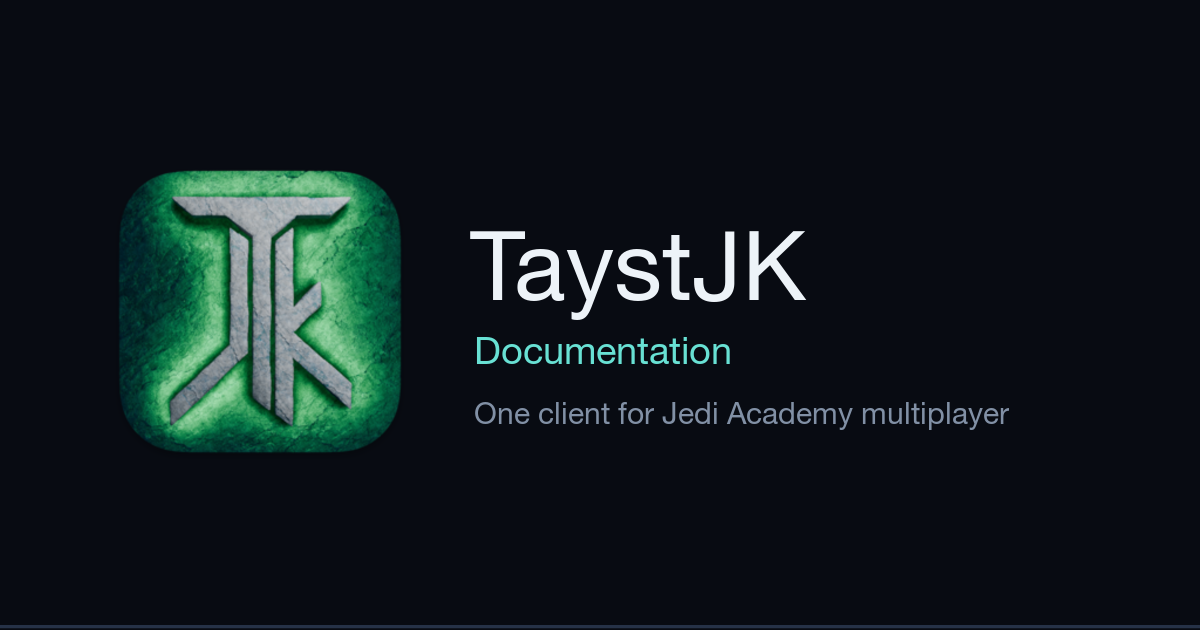
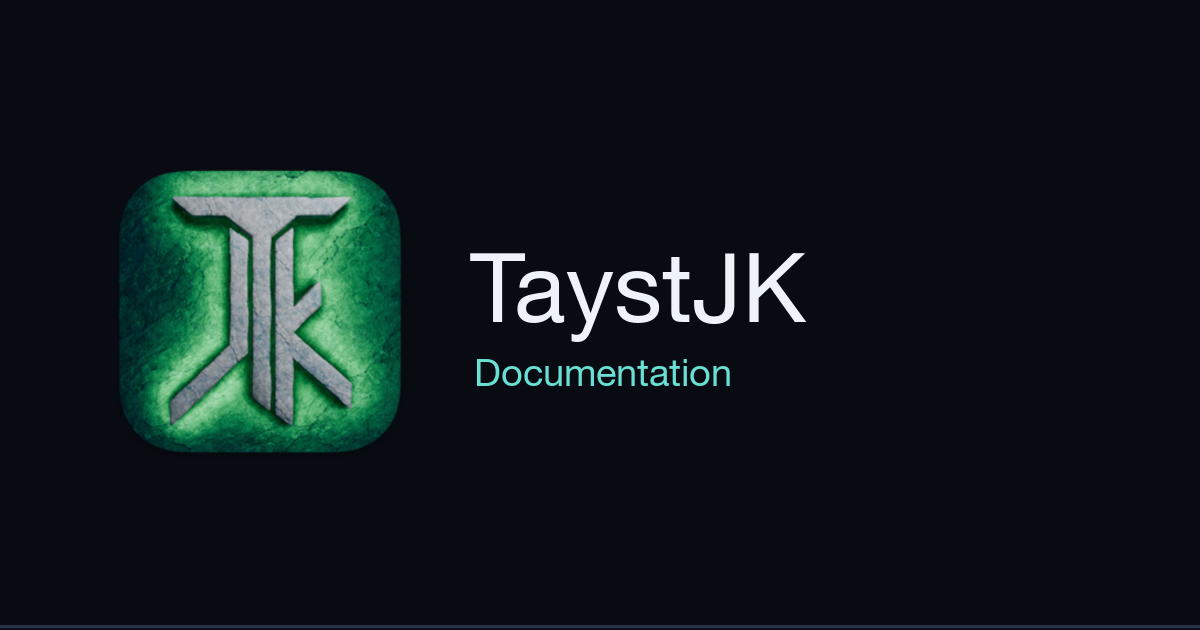
[docs] plain homepage title and intro, drop the tagline from the footer and social card

Changed region(s): [[0.37, 0.3619, 0.8325, 0.6937]]

diff --git a/_layouts/reference.html b/_layouts/reference.html
@@ -4,7 +4,7 @@
     <meta charset="utf-8">
     <meta name="viewport" content="width=device-width, initial-scale=1">
     <meta name="theme-color" content="#090d16">
-    <title>{% if page.title %}{{ page.title }} · {% endif %}{{ site.title }}</title>
+    <title>{% if page.url == '/' %}{{ page.title | default: site.title }}{% elsif page.title %}{{ page.title }} · {{ site.title }}{% else %}{{ site.title }}{% endif %}</title>
     <meta name="description" content="{{ page.description | default: site.description | escape }}">
     <link rel="canonical" href="{{ page.url | absolute_url }}">
 
@@ -23,7 +23,7 @@
     <meta property="og:image" content="{{ '/assets/social-card.png' | absolute_url }}">
     <meta property="og:image:width" content="1200">
     <meta property="og:image:height" content="630">
-    <meta property="og:image:alt" content="TaystJK Documentation: one client for Jedi Academy multiplayer">
+    <meta property="og:image:alt" content="TaystJK documentation">
     <meta name="twitter:card" content="summary_large_image">
     <meta name="twitter:title" content="{{ page_title | escape }}">
     <meta name="twitter:description" content="{{ page_desc | escape }}">
@@ -198,7 +198,7 @@
       <div>
         <a class="site-brand footer-brand" href="{{ '/' | relative_url }}">
           <img class="brand-mark" src="{{ '/shared/icons/TaystJK.ico' | relative_url }}" width="32" height="32" alt="">
-          <span><strong>TaystJK</strong><small>One client for JKA multiplayer.</small></span>
+          <span><strong>TaystJK</strong><small>Documentation</small></span>
         </a>
         <p>A Jedi Academy multiplayer client for Windows, Linux and macOS.</p>
       </div>

diff --git a/tools/cvar_audit/generate_docs.py b/tools/cvar_audit/generate_docs.py
@@ -1403,22 +1403,22 @@ def home_page(cvars: list[dict[str, Any]], commands: list[dict[str, Any]]) -> st
     total_count = len(entries)
     japro_count = sum(1 for entry in entries if entry["origin"]["source"] == "japro")
     return frontmatter(
-        "TaystJK: one client for Jedi Academy multiplayer",
+        "TaystJK documentation",
         1,
         wide=True,
         toc=True,
         description=(
-            "TaystJK is a cross-platform Jedi Academy multiplayer client built for Base JKA, "
-            "JA+/JA++, jaPRO, and Lugormod servers, on Windows, Linux, and macOS."
+            "Documentation for TaystJK, a Jedi Academy multiplayer client and dedicated server "
+            "for Windows, Linux and macOS."
         ),
     ) + f"""
 <div class="docs-overview">
   <section class="docs-intro" aria-labelledby="page-title">
-    <p class="eyebrow">TaystJK documentation</p>
-    <h1 id="page-title">One client for Jedi Academy multiplayer</h1>
-    <p class="page-lede">TaystJK replaces the multiplayer executable of your own copy of Jedi Academy. It plays on Base JKA, JA+ and JA++, jaPRO and Lugormod servers, and runs on Windows, Linux and macOS.</p>
+    <p class="eyebrow">Jedi Academy multiplayer</p>
+    <h1 id="page-title">TaystJK documentation</h1>
+    <p class="page-lede">TaystJK is a Jedi Academy multiplayer client and dedicated server for Windows, Linux and macOS. These pages cover installing it, hosting a server, what it adds, and working on the code.</p>
     <div class="docs-intro-actions">
-      <a class="button button-primary" href="{{{{ '/install/' | relative_url }}}}">Install TaystJK</a>
+      <a class="button button-primary" href="{{{{ '/install/' | relative_url }}}}">Installation</a>
       <a class="button button-secondary" href="https://github.com/taysta/TaystJK/releases/latest">Latest release</a>
     </div>
     <nav class="docs-intro-links" aria-label="Project links">
@@ -1447,10 +1447,10 @@ def home_page(cvars: list[dict[str, Any]], commands: list[dict[str, Any]]) -> st
 <section class="home-purpose" aria-labelledby="purpose-heading">
   <div class="home-section-heading">
     <div>
-      <p class="section-kicker">What it does</p>
-      <h2 id="purpose-heading">Works with every server mod</h2>
+      <p class="section-kicker">Server mods</p>
+      <h2 id="purpose-heading">How it handles different mods</h2>
     </div>
-    <p>Jedi Academy servers run different mods with different rules. TaystJK works out which one you joined and adjusts to it, so you do not need a separate client per community.</p>
+    <p>Jedi Academy servers run different mods with different rules. TaystJK detects which one a server runs and adjusts to it.</p>
   </div>
 
   <div class="purpose-principles">

diff --git a/index.md b/index.md
@@ -1,20 +1,20 @@
 ---
-title: "TaystJK: one client for Jedi Academy multiplayer"
+title: "TaystJK documentation"
 layout: reference
 generated: true
 nav_order: 1
 wide: true
-description: "TaystJK is a cross-platform Jedi Academy multiplayer client built for Base JKA, JA+/JA++, jaPRO, and Lugormod servers, on Windows, Linux, and macOS."
+description: "Documentation for TaystJK, a Jedi Academy multiplayer client and dedicated server for Windows, Linux and macOS."
 toc: true
 ---
 
 <div class="docs-overview">
   <section class="docs-intro" aria-labelledby="page-title">
-    <p class="eyebrow">TaystJK documentation</p>
-    <h1 id="page-title">One client for Jedi Academy multiplayer</h1>
-    <p class="page-lede">TaystJK replaces the multiplayer executable of your own copy of Jedi Academy. It plays on Base JKA, JA+ and JA++, jaPRO and Lugormod servers, and runs on Windows, Linux and macOS.</p>
+    <p class="eyebrow">Jedi Academy multiplayer</p>
+    <h1 id="page-title">TaystJK documentation</h1>
+    <p class="page-lede">TaystJK is a Jedi Academy multiplayer client and dedicated server for Windows, Linux and macOS. These pages cover installing it, hosting a server, what it adds, and working on the code.</p>
     <div class="docs-intro-actions">
-      <a class="button button-primary" href="{{ '/install/' | relative_url }}">Install TaystJK</a>
+      <a class="button button-primary" href="{{ '/install/' | relative_url }}">Installation</a>
       <a class="button button-secondary" href="https://github.com/taysta/TaystJK/releases/latest">Latest release</a>
     </div>
     <nav class="docs-intro-links" aria-label="Project links">
@@ -43,10 +43,10 @@ toc: true
 <section class="home-purpose" aria-labelledby="purpose-heading">
   <div class="home-section-heading">
     <div>
-      <p class="section-kicker">What it does</p>
-      <h2 id="purpose-heading">Works with every server mod</h2>
+      <p class="section-kicker">Server mods</p>
+      <h2 id="purpose-heading">How it handles different mods</h2>
     </div>
-    <p>Jedi Academy servers run different mods with different rules. TaystJK works out which one you joined and adjusts to it, so you do not need a separate client per community.</p>
+    <p>Jedi Academy servers run different mods with different rules. TaystJK detects which one a server runs and adjusts to it.</p>
   </div>
 
   <div class="purpose-principles">

diff --git a/overview.md b/overview.md
@@ -54,7 +54,7 @@ The split shows in the reference: of those {{ site.data.reference_stats.by_origi
 | Server-side gamecode | `jampgame` | Race mode, the movement styles, Tribes and the admin system when *you* host |
 | Assets | `japro-assets.pk3` | The shaders, models and icons those features draw ([`codemp/CMakeLists.txt`](https://github.com/taysta/TaystJK/blame/76943f046bbbdc23d67323b838cb1c4c1e3fba0e/codemp/CMakeLists.txt#L81)) |
 
-So a TaystJK dedicated server serves jaPRO-style gameplay out of the box, with nothing else
+So a TaystJK dedicated server runs jaPRO-style gameplay with nothing else
 installed, and this site can cite `codemp/game/` for things like `/move` and the Tribes
 classes because that code is in this tree.
 

diff --git a/install.md b/install.md
@@ -11,7 +11,7 @@ toc: true
 
 # Install TaystJK
 
-<p class="page-lede">TaystJK replaces the multiplayer executable, not the game's data. You need the four asset archives from your own copy of Jedi Academy, and TaystJK can sit beside them or in a directory of its own.</p>
+<p class="page-lede">TaystJK runs on the game files from your own copy of Jedi Academy. You need its four asset archives, and TaystJK can sit beside them or in a directory of its own.</p>
 </div>
 
 ## Before you start
